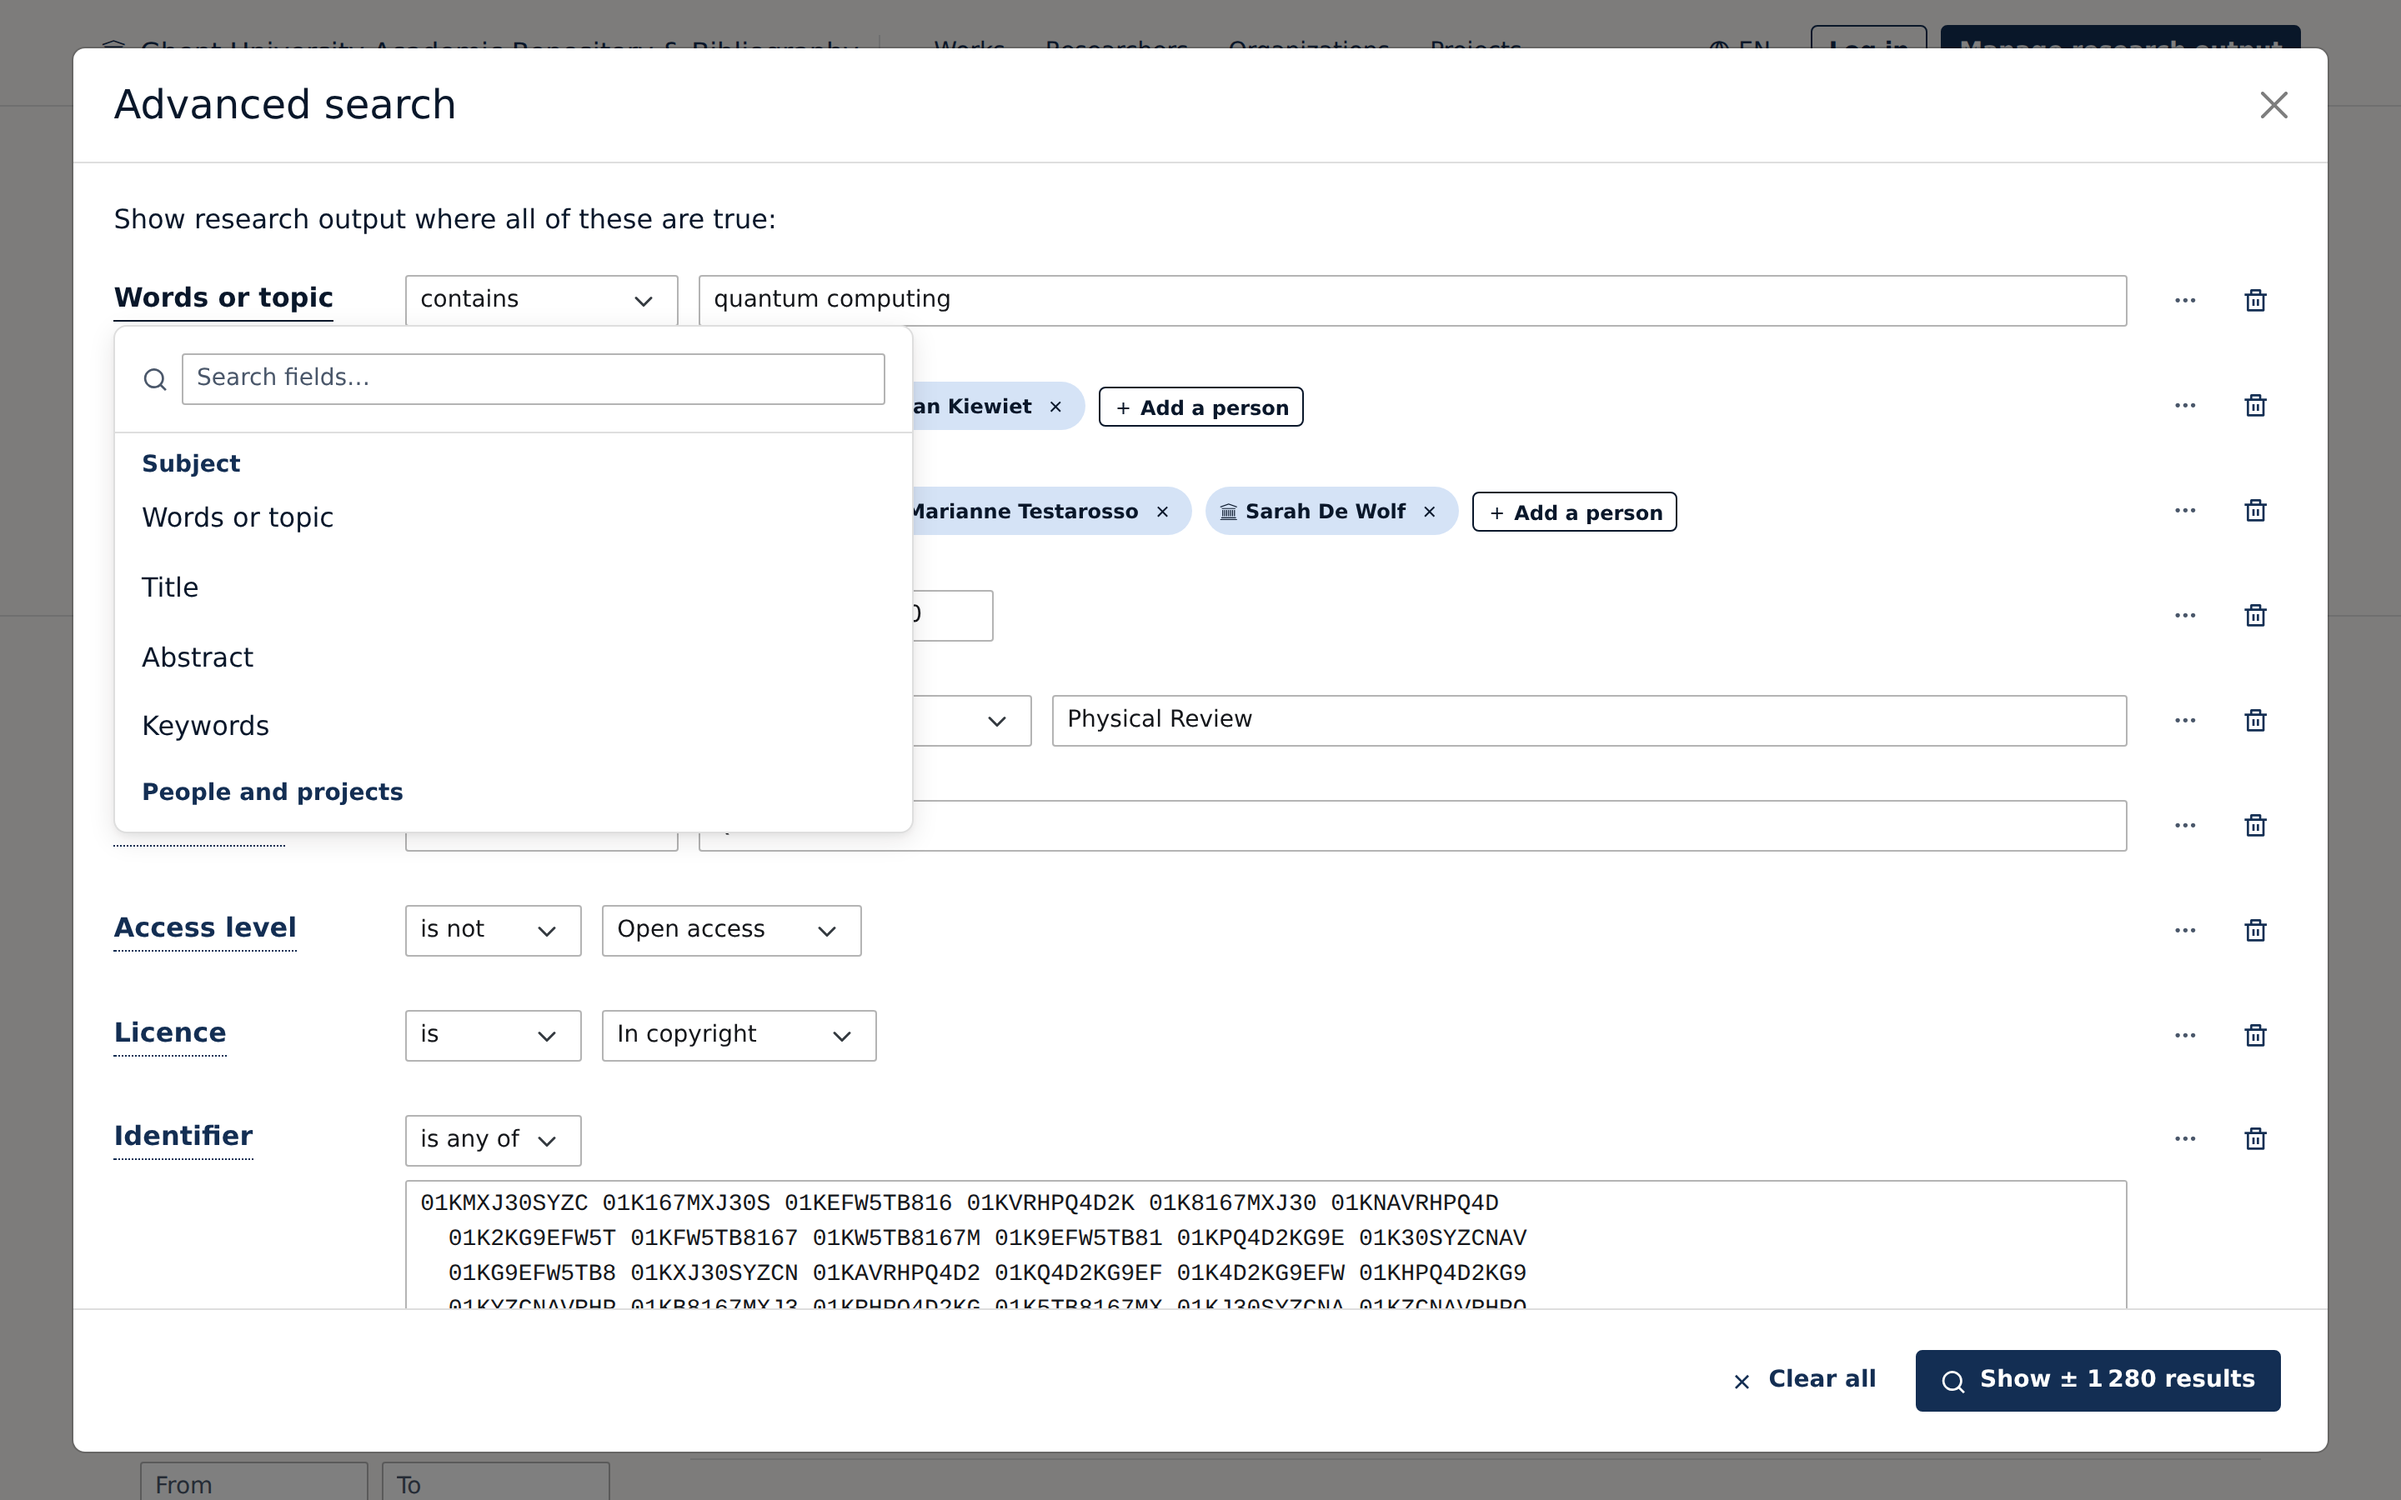
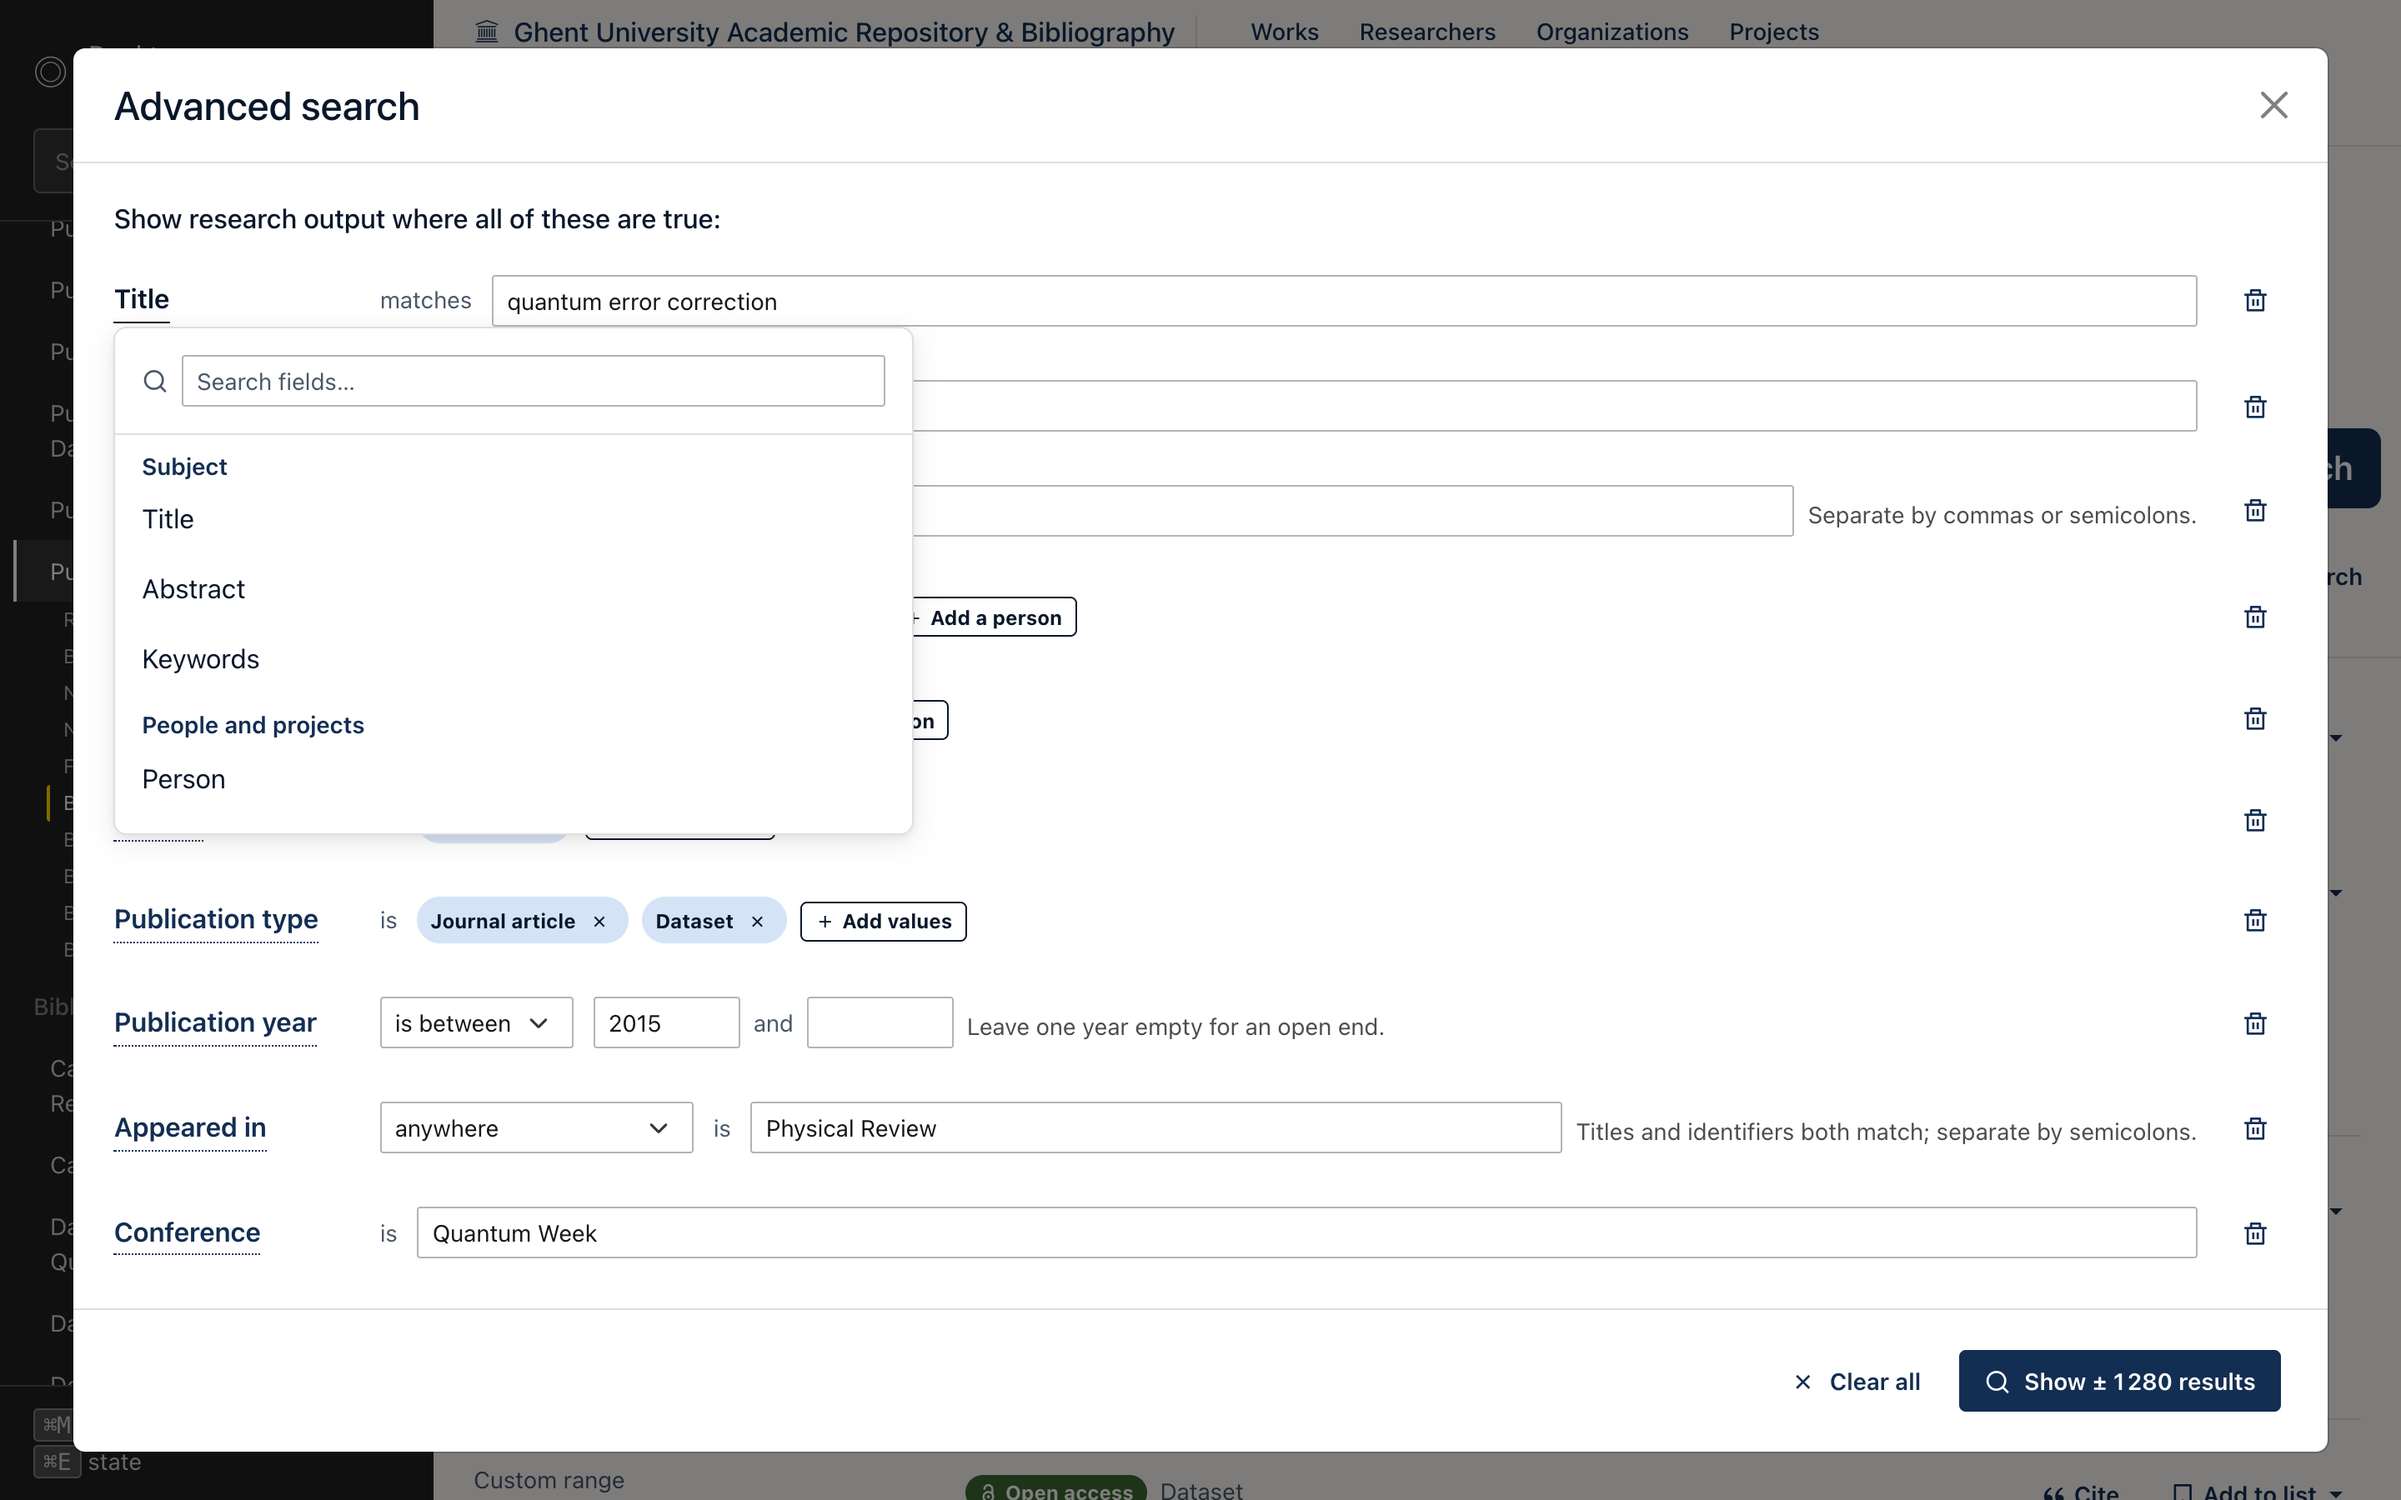
Update issues

diff --git a/docs/wip/QUERY-BUILDER-ISSUE-03-value-inputs.md b/docs/wip/QUERY-BUILDER-ISSUE-03-value-inputs.md
@@ -4,7 +4,7 @@ about: Port a booktower-ui-library prototype into raven
 title: "[public][03] Advanced search: the value input per field type"
 ---
 
-<!-- Draft. Query-builder track: docs/wip/README.md. Child of epic 00. -->
+<!-- Refile source for raven #226: copy the body over the issue at the reveal. -->
 
 ## Why
 
@@ -12,22 +12,24 @@ The old power tiers treat people and organizations as text. A surname can match 
 people, and similar organization names are hard to distinguish. The builder stores the
 record Ans Rapport (faculty communications officer) picked.
 
-Quinn Query (external analyst) also needs to paste large identifier batches; observed
-batches reach 763 values.
-
 ## What
 
-- [ ] Each value type has one control, selected by its operator
-- [ ] `is any of` accepts several values for the eight closed-vocabulary fields
+- [ ] The selected field sets the value control; the year operator switches between
+      a year list and a pair
+- [ ] A condition can hold several values; a work matches when any one of them
+      matches
+- [ ] A public condition takes at most five values; a picker disables further values
+      at the cap
+- [ ] An empty year leaves that end of a between open, announced as "2015 and later"
 - [ ] Person, organization and project controls store the selected record
-- [ ] Paste reports recognized and unread lines without dropping any silently
-- [ ] A batch too long for a durable link points to Save search
+- [ ] Paste reports recognised lines, unread lines and what the cap drops — nothing
+      disappears silently
+- `out of scope` The identifier paste box — #295 (phase 2)
 
 **Prototype:** [builder](https://bkt-ui.vercel.app/templates/biblio-public/public-works.html?state=builder-full-query)
 and [pattern](https://bkt-ui.vercel.app/patterns/query-builder.html)
 
 > **Screenshot:** a person row with two people and the picker open (`screenshots/03-person-picker.png`)
-> **Screenshot:** the identifier row with a pasted batch (`screenshots/03-identifier-batch.png`)
 
 Prototype URLs are placeholders. UI copy uses Raven's translation files.
 
@@ -35,14 +37,13 @@ Prototype URLs are placeholders. UI copy uses Raven's translation files.
 
 - [ ] Matches the prototype
 - [ ] Each selected value is keyboard-removable and named when removed
-- [ ] A batch of several hundred values remains usable
 - [ ] Value lists come from Raven's configured vocabularies
 - [ ] Passes `docs/ACCESSIBILITY.md` pre-flight
 - [ ] `make build` passes
 
 ## Dependencies
 
-Blocked by issue 02.
+Blocked by #225. Title and Keywords autocomplete depend on a raven index capability.
 
 ## Open questions
 

diff --git a/docs/wip/QUERY-BUILDER-ISSUE-05-dialog.md b/docs/wip/QUERY-BUILDER-ISSUE-05-dialog.md
@@ -4,16 +4,15 @@ about: Port a booktower-ui-library prototype into raven
 title: "[public][05] Advanced search: the dialog over the results"
 ---
 
-<!-- Draft. Query-builder track: docs/wip/README.md. Child of epic 00. -->
+<!-- Refile source for raven #228. -->
 
 ## Why
 
 Most observed power-search sessions began with results already on screen: 990 of
-1,601 sessions in six months. A separate Advanced page hides that list while the query
-changes. The builder opens over the results and keeps the query in one durable address.
-
-Ans Rapport (faculty communications officer) can refine an existing list. Quinn Query
-(external analyst) can bookmark and share a batch query.
+1,601 sessions in six months. A separate Advanced page hides that list while the
+query changes. The builder opens over the results and keeps the query in one durable
+address, so Ans Rapport (faculty communications officer) can refine an existing list
+and share it.
 
 ## What
 
@@ -23,19 +22,15 @@ Ans Rapport (faculty communications officer) can refine an existing list. Quinn 
 - [ ] Back returns to the previous URL state
 - [ ] The open dialog renders server-side
 - [ ] Existing filters on the list enter as editable conditions
-- [ ] A sidebar filter held by a condition points back to that condition
+- [ ] The filter chips are the only place the page shows builder conditions
+- `out of scope` The sidebar pointing back to a condition-held filter — future design
+- `out of scope` The search box's free text — it stays in the search box, never a
+  condition
 - `out of scope` Results, facets and sorting
 
-Do not translate a negated condition into checked positive facet values. Removing one
-check would silently change `not X` into `A or B`; the facet points back to the condition
-instead.
-
 **Prototype:** [builder](https://bkt-ui.vercel.app/templates/biblio-public/public-works.html?state=builder-full-query)
-and [condition-held facet](https://bkt-ui.vercel.app/templates/biblio-public/public-works.html?state=facet-set-in-builder)
 
 > **Screenshot:** the builder open over the results (`screenshots/00-builder-over-results.png`)
-> **Screenshot:** the sidebar reporting a filter held by a condition
-> (`screenshots/05-facet-held-by-condition.png`)
 
 Prototype URLs are placeholders. UI copy uses Raven's translation files.
 
@@ -48,4 +43,4 @@ Prototype URLs are placeholders. UI copy uses Raven's translation files.
 
 ## Dependencies
 
-Blocked by issue 02 and issue 03.
+Blocked by #225, #226 and the address decision in #223.

diff --git a/docs/wip/QUERY-BUILDER-ISSUE-04-count.md b/docs/wip/QUERY-BUILDER-ISSUE-04-count.md
@@ -4,21 +4,25 @@ about: Port a booktower-ui-library prototype into raven
 title: "[public][04] Advanced search: the approximate count on the submit"
 ---
 
-<!-- Draft. Query-builder track: docs/wip/README.md. Child of epic 00. -->
+<!-- Refile source for raven #227: copy the body over the issue at the reveal. -->
 
 ## Why
 
-The current power tiers reveal an over-broad or empty query only after submission.
+Advanced and Expert search reveal an over-broad or empty query only after it runs.
 The builder shows an approximate count while Ans Rapport (faculty communications
-officer) narrows a set. The results page remains the exact count.
+officer) narrows a set.
 
 ## What
 
-- [ ] The submit shows and announces the count after complete conditions change
-- [ ] The count settles after typing; an older response cannot replace a newer one
+- [ ] The submit button shows the count and announces it when a complete condition
+      changes
+- [ ] The count settles after typing; an older response never replaces a newer one
+- [ ] The count is exact below a threshold raven picks and reads "more than 10,000"
+      above it; zero is always exact
 - [ ] Zero results never cause the builder to remove a condition
 - [ ] The builder remains usable when counting is unavailable
-- `out of scope` Results list
+- `out of scope` The results list
+- `out of scope` Spelling feedback on a zero-result row — later phase
 
 **Prototype:** [count](https://bkt-ui.vercel.app/templates/biblio-public/public-works.html?state=builder-full-query)
 and [zero results](https://bkt-ui.vercel.app/templates/biblio-public/public-works.html?state=builder-no-results)
@@ -31,18 +35,11 @@ Prototype URLs are placeholders. UI copy uses Raven's translation files.
 ## Acceptance criteria
 
 - [ ] Matches the prototype
-- [ ] The count is the builder's only announced region
-- [ ] Counting cannot make public search more expensive than the search it previews
+- [ ] The count is the builder's only live region
+- [ ] Counting never costs more than the search it previews
 - [ ] Passes `docs/ACCESSIBILITY.md` pre-flight
 - [ ] `make build` passes
 
 ## Dependencies
 
-Blocked by issue 02 and issue 03.
-
-## Open questions
-
-- **Count wording:** exact total, or a capped “more than N” total?
-- **Zero-result help:** generic help, same-field OR suggestion, spelling help, or both
-  suggestions? Spelling help requires search support; the OR suggestion uses the query
-  structure.
+Blocked by #225 and #226.

diff --git a/docs/wip/QUERY-BUILDER-ISSUE-REWRITE.md b/docs/wip/QUERY-BUILDER-ISSUE-REWRITE.md
@@ -1,0 +1,49 @@
+# Query builder issue rewrite — draft
+
+The filed issues predate the phase-1 revision. The rewritten bodies live in the local
+`ISSUE-*` files — 00, 02, 03, 04, 05, and 08 for the phase-2 placeholder #295; at
+filing time M copies each body over its GitHub issue. This file lists what changed.
+File 00–05 after the reveal lands, with re-captured screenshots; 08 waits for
+phase 2.
+
+## #223 epic (ISSUE-00)
+
+The epic now says the work is front-end — backend gaps become backend issues or
+stubs. Phasing: the backoffice field set is phase 2, fields TBD (#295); OR groups are
+phase 3 (#230). Marie Curator arrives with phase 2; Quinn Query stays out (API). Free
+text never becomes a condition (the bet's no-go). Acceptance matches the golden-set
+gate: authorable, or signed off (not exposed, over cap, parked for a later phase).
+
+## #225 (ISSUE-02)
+
+The chooser offers 14 public fields, down from 21. The Licence public-exposure dependency is deleted — the
+field is backoffice-only. The OR-suggestion sentence is deleted — the combine offer
+is removed, never building; the "Add an 'or'" action is gated out of phase-1 views.
+
+## #226 (ISSUE-03)
+
+The identifier paste box and its 763-value evidence move to #295. The multi-value
+sentence is rewritten. The five-value cap with reported drops replaces the
+Save-search pointer and "several hundred values remains usable". Open-ended year
+bounds are added. Title and Keywords autocomplete becomes a raven dependency.
+
+## #227 (ISSUE-04)
+
+The zero-result-help question is deleted: spelling feedback is out of scope, the OR
+suggestion is dropped. The count-wording question stays.
+
+## #228 (ISSUE-05)
+
+The search box's free text is out of scope — never a condition (the bet's no-go). The
+sidebar's condition-held tile is out too — the filter chips are the page's only
+reflection of builder conditions; its state stays future design. Quinn Query's share sentence is gone; the address decision joins the
+dependencies.
+
+## #224, #229, #230
+
+No change; the backoffice hosts belong to #295, and the epic carries #230's phase-3
+label.
+
+## Handoff note
+
+At handoff the field contract is promoted out of `docs/wip/`, not deleted.

diff --git a/docs/wip/QUERY-BUILDER-ISSUE-08-backoffice.md b/docs/wip/QUERY-BUILDER-ISSUE-08-backoffice.md
@@ -1,0 +1,46 @@
+---
+name: Implement design
+about: Port a booktower-ui-library prototype into raven
+title: "[backoffice][08] Advanced search: the backoffice field set"
+---
+
+<!-- Refile source for raven #295, the phase-2 placeholder. -->
+
+## Why
+
+Marie Curator (reviewer/curator) needs deposit status, classification and record dates
+without leaving the works list.
+
+## What
+
+- [ ] The backoffice works lists open the public builder dialog unchanged
+- [ ] The chooser adds the backoffice-only fields from the field contract
+- [ ] Access level and Organization gain "is not" on this surface
+- [ ] Every condition caps at twenty values on this surface
+- [ ] The identifier box reports what it kept, what went over the cap and what it
+      did not recognise
+- [ ] The public chooser never offers a backoffice field or operator
+- `out of scope` Public fields and controls — #225, #226
+
+**Prototype:** the backoffice list dialogs (curation and researcher works), after the
+reveal.
+
+The prototype governs visible UI and markup. Prototype URLs are placeholders. UI copy
+uses Raven's translation files.
+
+## Acceptance criteria
+
+- [ ] Matches the prototype
+- [ ] Passes `docs/ACCESSIBILITY.md` pre-flight
+- [ ] `make build` passes
+
+## Dependencies
+
+Blocked by #225 and #226. #284 decides JCR exposure. Raven names the record-history
+id and the reviewed timestamp.
+
+## Open questions
+
+- Which backoffice fields ship? The contract's backoffice tables are the proposal.
+- The Classification, VABB and JCR value lists are mock values; raven's catalogs
+  confirm them.
